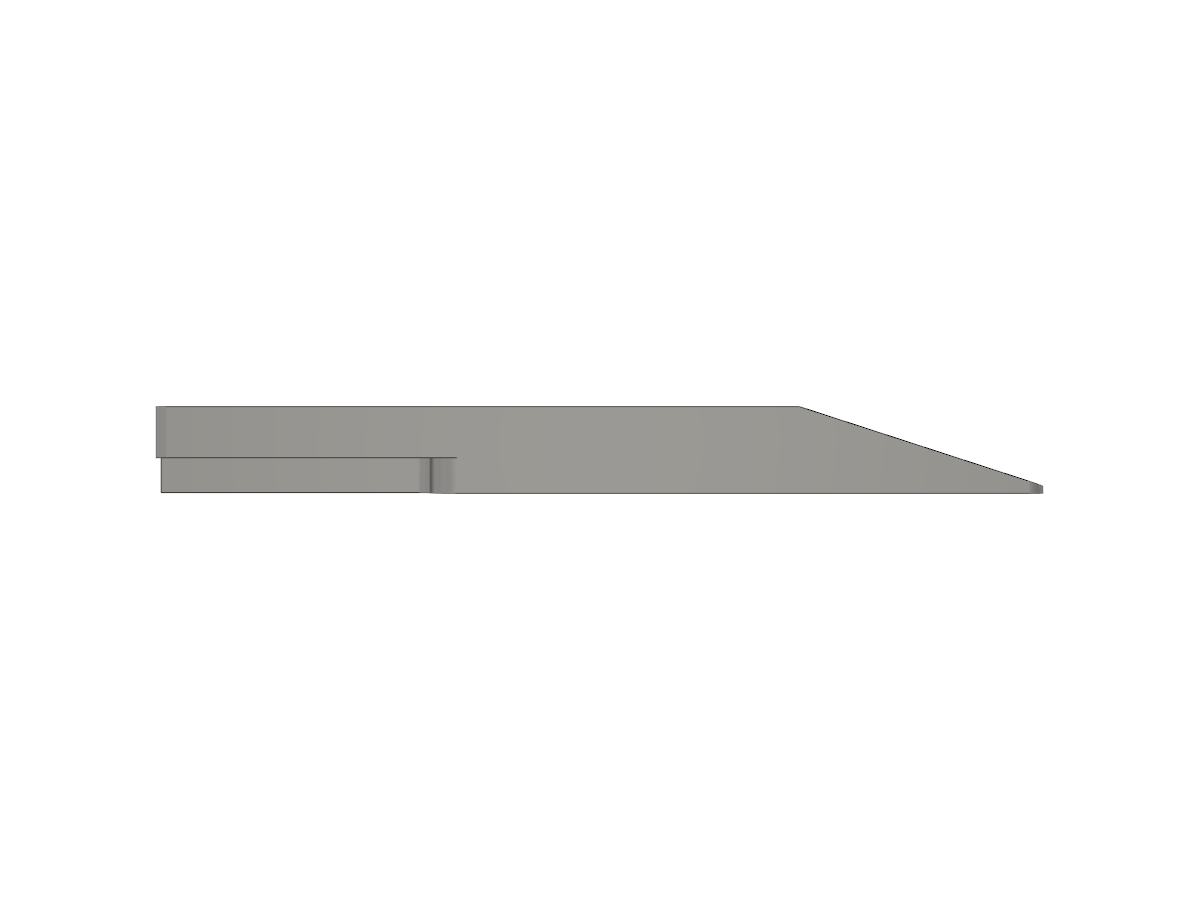
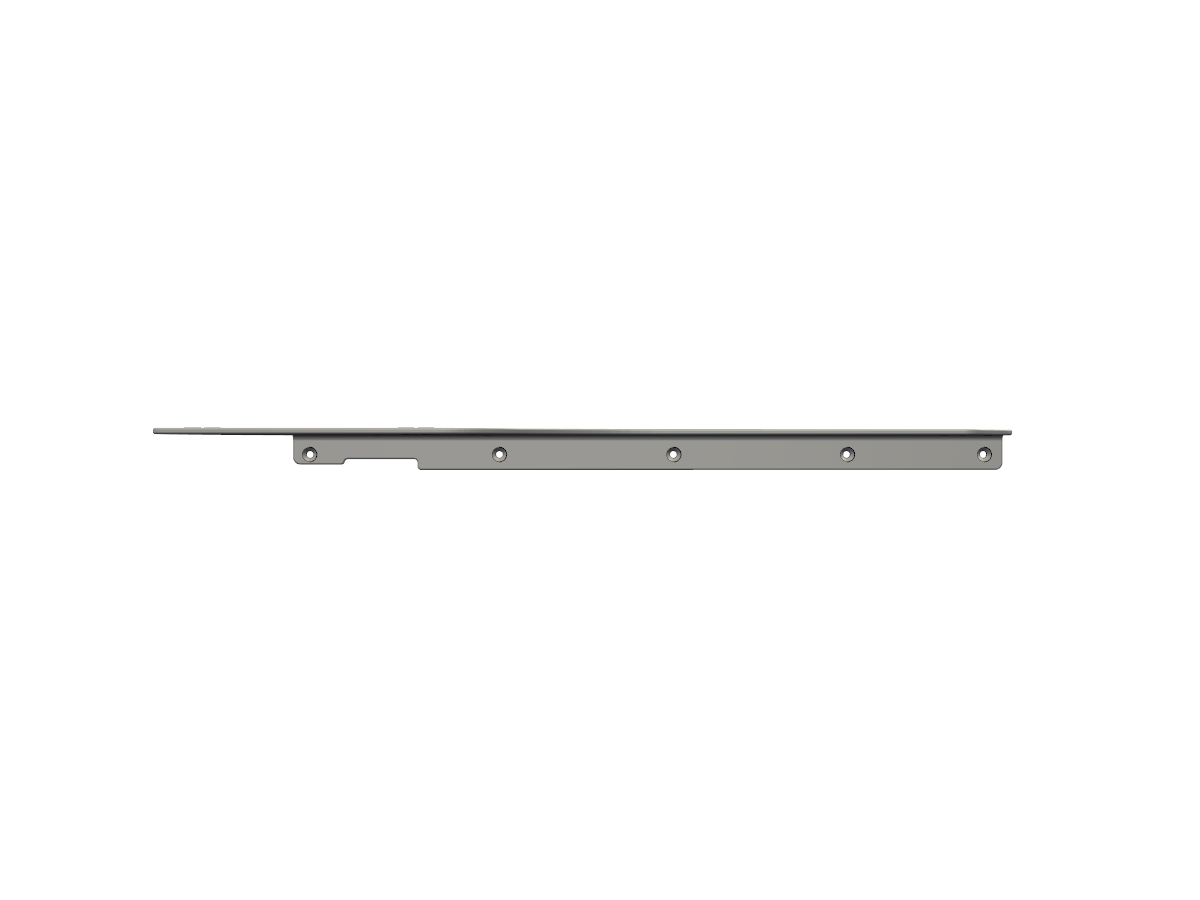
Working Pipeline

Changed region(s): [[0.1233, 0.4356, 0.8633, 0.56]]

diff --git a/api/steps.py b/api/steps.py
@@ -1,0 +1,52 @@
+from flask import Blueprint, request, jsonify
+from util.step_to_mesh import step_to_mesh, download_zoho_file
+from util.render import render_mesh_twice
+from util.zoho_tools import add_img_to_item, add_back_img_to_item
+from PIL import Image
+
+steps_bp = Blueprint("steps", __name__)
+
+import io
+
+@steps_bp.route("", methods=["POST"])
+def step_to_img():
+    data = request.get_json(force=True, silent=True)
+
+    if not data:
+        return jsonify({"error": "Expected a JSON body"}), 400
+
+    required_fields = ["uri", "token", "item_id", "org_id", "inventory_token"]
+    missing = [f for f in required_fields if f not in data]
+    if missing:
+        return jsonify({"error": f"Missing fields: {missing}"}), 400
+
+    step_bytes = download_zoho_file(data["uri"], data["token"]).content
+
+    mesh = step_to_mesh(step_bytes)
+    render_mesh_twice(mesh)
+
+    img1 = Image.open("view_front.png")
+    img2 = Image.open("view_isometric.png")
+
+    def image_to_bytes(img: Image.Image, fmt: str = "PNG") -> bytes:
+        buf = io.BytesIO()
+        img.save(buf, format=fmt)
+        return buf.getvalue()
+
+    img1_bytes = image_to_bytes(img1)
+    img2_bytes = image_to_bytes(img2)
+
+    result1 = add_back_img_to_item(
+        data["item_id"], data["org_id"], data["inventory_token"],
+        img1_bytes, filename="front.png", content_type="image/png",
+    )
+    result2 = add_img_to_item(
+        data["item_id"], data["org_id"], data["inventory_token"],
+        img2_bytes, filename="isometric.png", content_type="image/png",
+    )
+
+    return jsonify({
+        "status": "ok",
+        "front_upload": result1,
+        "isometric_upload": result2,
+    }), 200

diff --git a/util/zoho_tools.py b/util/zoho_tools.py
@@ -1,0 +1,63 @@
+import requests
+
+def add_img_to_item(
+    item_id: str,
+    organization_id: str,
+    access_token: str,
+    image_bytes: bytes,
+    filename: str = "item.png",
+    content_type: str = "image/png",
+) -> dict:
+    url = f"https://www.zohoapis.com/inventory/v1/items/{item_id}/image"
+
+    headers = {
+        "Authorization": f"Zoho-oauthtoken {access_token}",
+    }
+
+    params = {
+        "organization_id": organization_id,
+    }
+
+    files = {
+        "image": (filename, image_bytes, content_type),
+    }
+
+    response = requests.post(url, headers=headers, params=params, files=files)
+    response.raise_for_status()
+
+    data = response.json()
+    if data.get("code") != 0:
+        raise RuntimeError(f"Zoho upload failed: {data.get('message')} (code {data.get('code')})")
+
+    return data
+
+def add_back_img_to_item(
+    item_id: str,
+    organization_id: str,
+    access_token: str,
+    image_bytes: bytes,
+    filename: str = "item.png",
+    content_type: str = "image/png",
+) -> dict:
+    url = f"https://www.zohoapis.com/inventory/v1/items/{item_id}/backimage"
+
+    headers = {
+        "Authorization": f"Zoho-oauthtoken {access_token}",
+    }
+
+    params = {
+        "organization_id": organization_id,
+    }
+
+    files = {
+        "back_image": (filename, image_bytes, content_type),
+    }
+
+    response = requests.post(url, headers=headers, params=params, files=files)
+    response.raise_for_status()
+
+    data = response.json()
+    if data.get("code") != 0:
+        raise RuntimeError(f"Zoho upload failed: {data.get('message')} (code {data.get('code')})")
+
+    return data

diff --git a/main.py b/main.py
@@ -1,38 +1,12 @@
-import cadquery as cq
-import pyvista as pv
-import tempfile, os
 
-step_file = "assets/model.step"
-shape = cq.importers.importStep(step_file)
+from flask import Flask, request, jsonify, Blueprint
+from util.render import render
+from api import register_blueprints
 
-tmp_stl = os.path.join(tempfile.gettempdir(), "model.stl")
-cq.exporters.export(shape, tmp_stl, angularTolerance=0.1)
 
-mesh = pv.read(tmp_stl)
-mesh = mesh.clean()  # remove duplicate points/faces
+app = Flask(__name__)
 
-def render(mesh, camera_position, output_path, window_size=(1200, 900)):
-    pl = pv.Plotter(off_screen=True, window_size=window_size)
-    pl.set_background("white")
-    pl.add_mesh(
-        mesh,
-        color="#949494",
-        smooth_shading=False,
-        specular=0.5,
-        specular_power=15,
-    )
-    pl.add_mesh(
-        mesh.extract_feature_edges(),
-        color="black",
-    )
-    pl.add_light(pv.Light(position=(5, 5, 5),  light_type="scene light", intensity=0.8))
-    pl.add_light(pv.Light(position=(-5, -3, 3), light_type="scene light", intensity=0.3))
-    pl.camera_position = camera_position
-    pl.reset_camera()
-    pl.screenshot(output_path)
-    pl.close()
-    print(f"Saved → {output_path}")
+register_blueprints(app)
 
-render(mesh, camera_position="iso",   output_path="view_isometric.png")
-
-render(mesh, camera_position="xz",    output_path="view_front.png")
+if __name__ == "__main__":
+    app.run(debug=True)

diff --git a/util/render.py b/util/render.py
@@ -1,0 +1,27 @@
+import pyvista as pv
+
+def render(mesh, camera_position, output_path, window_size=(1200, 900)):
+    pl = pv.Plotter(off_screen=True, window_size=window_size)
+    pl.set_background("white")
+    pl.add_mesh(
+        mesh,
+        color="#949494",
+        smooth_shading=False,
+        specular=0.5,
+        specular_power=15,
+    )
+    pl.add_mesh(
+        mesh.extract_feature_edges(),
+        color="black",
+    )
+    pl.add_light(pv.Light(position=(5, 5, 5),  light_type="scene light", intensity=0.8))
+    pl.add_light(pv.Light(position=(-5, -3, 3), light_type="scene light", intensity=0.3))
+    pl.camera_position = camera_position
+    pl.reset_camera()
+    pl.screenshot(output_path)
+    pl.close()
+    print(f"Saved → {output_path}")
+
+def render_mesh_twice(mesh):
+    render(mesh, camera_position="iso",   output_path="view_isometric.png")
+    render(mesh, camera_position="xz",    output_path="view_front.png")

diff --git a/util/step_to_mesh.py b/util/step_to_mesh.py
@@ -1,0 +1,30 @@
+import cadquery as cq
+import pyvista as pv
+import tempfile, os
+
+def step_to_mesh(step_data):
+    with tempfile.NamedTemporaryFile(suffix=".step", delete=False) as tmp:
+        tmp.write(step_data)
+        tmp_path = tmp.name
+
+        shape = cq.importers.importStep(tmp_path)
+
+        tmp_stl = os.path.join(tempfile.gettempdir(), "model.stl")
+
+        cq.exporters.export(shape, tmp_stl, angularTolerance=0.1)
+        mesh = pv.read(tmp_stl)
+        mesh = mesh.clean()  # remove duplicate points/faces
+
+        return mesh
+
+import requests
+
+def download_zoho_file(uri: str, access_token: str) -> requests.Response:
+    headers = {
+        "Authorization": f"Zoho-oauthtoken {access_token}"
+    }
+
+    response = requests.get(uri, headers=headers)
+    response.raise_for_status()
+
+    return response

diff --git a/api/__init__.py b/api/__init__.py
@@ -1,0 +1,4 @@
+from .steps import steps_bp
+
+def register_blueprints(app):
+    app.register_blueprint(steps_bp, url_prefix="/steps")
